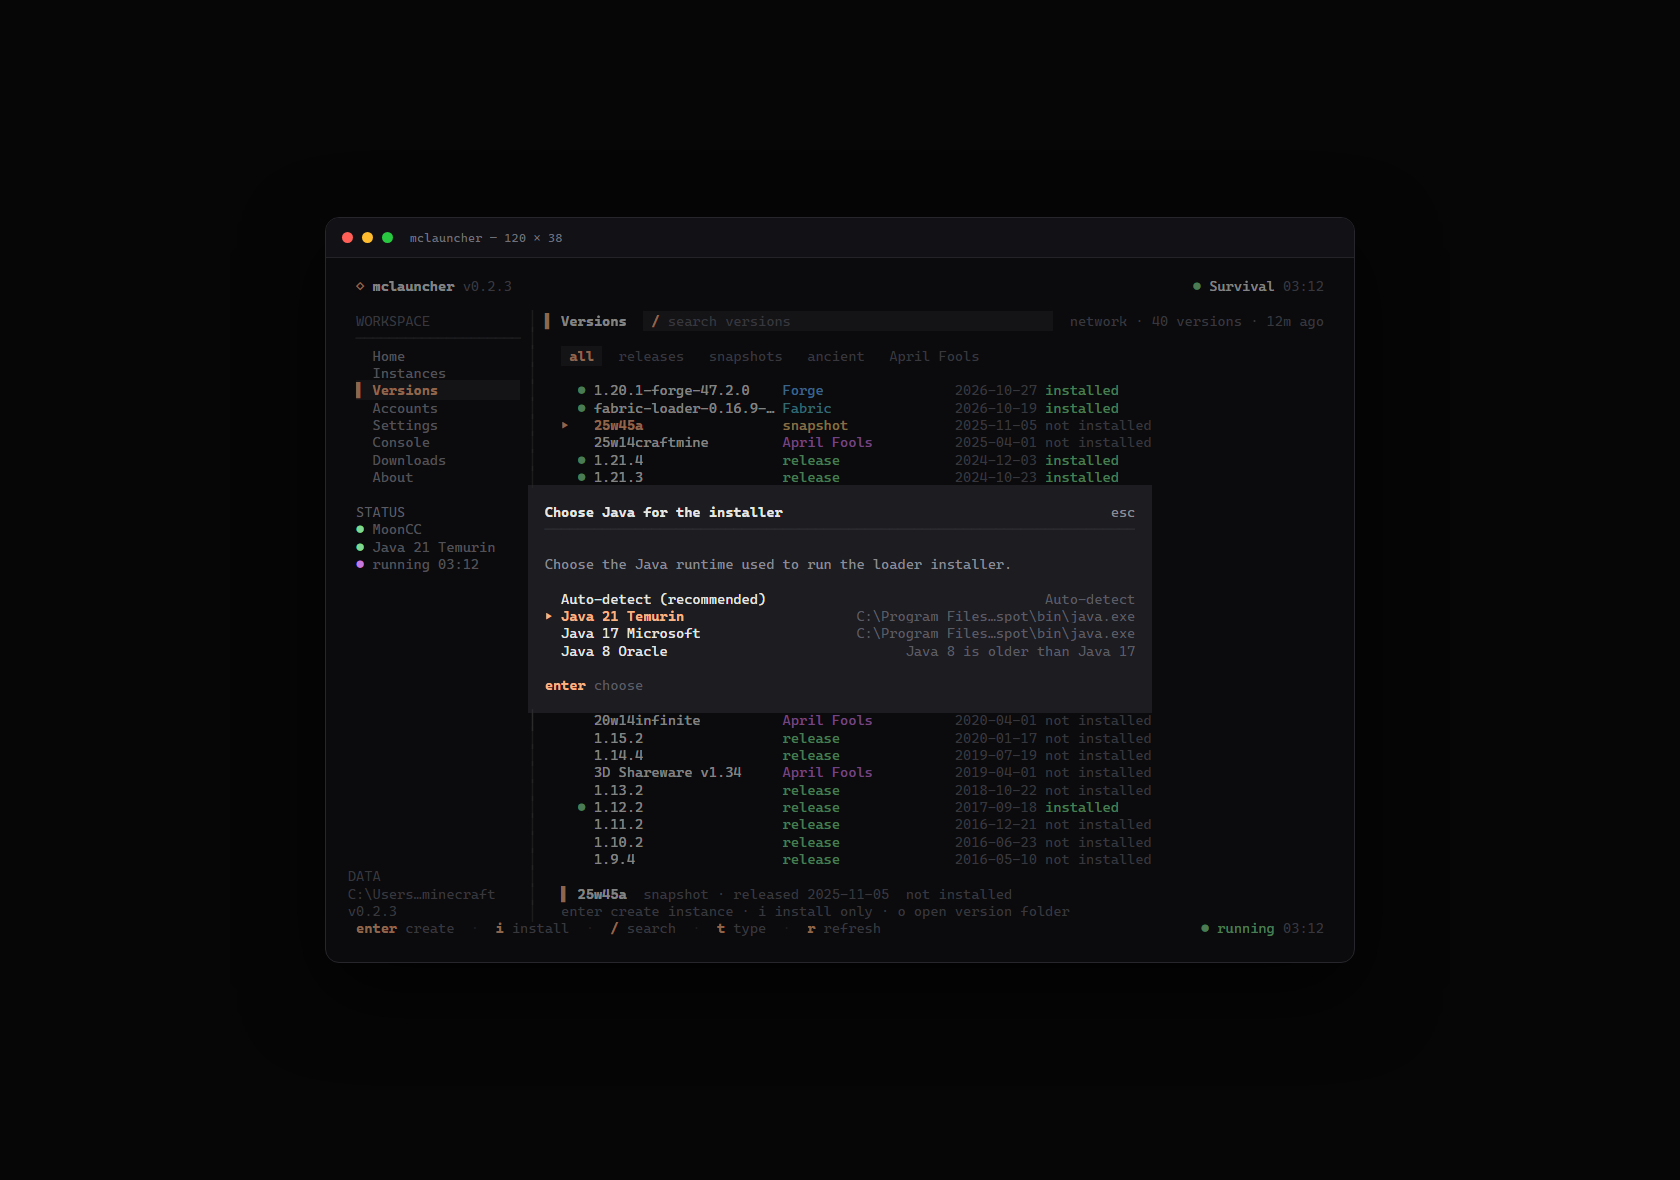
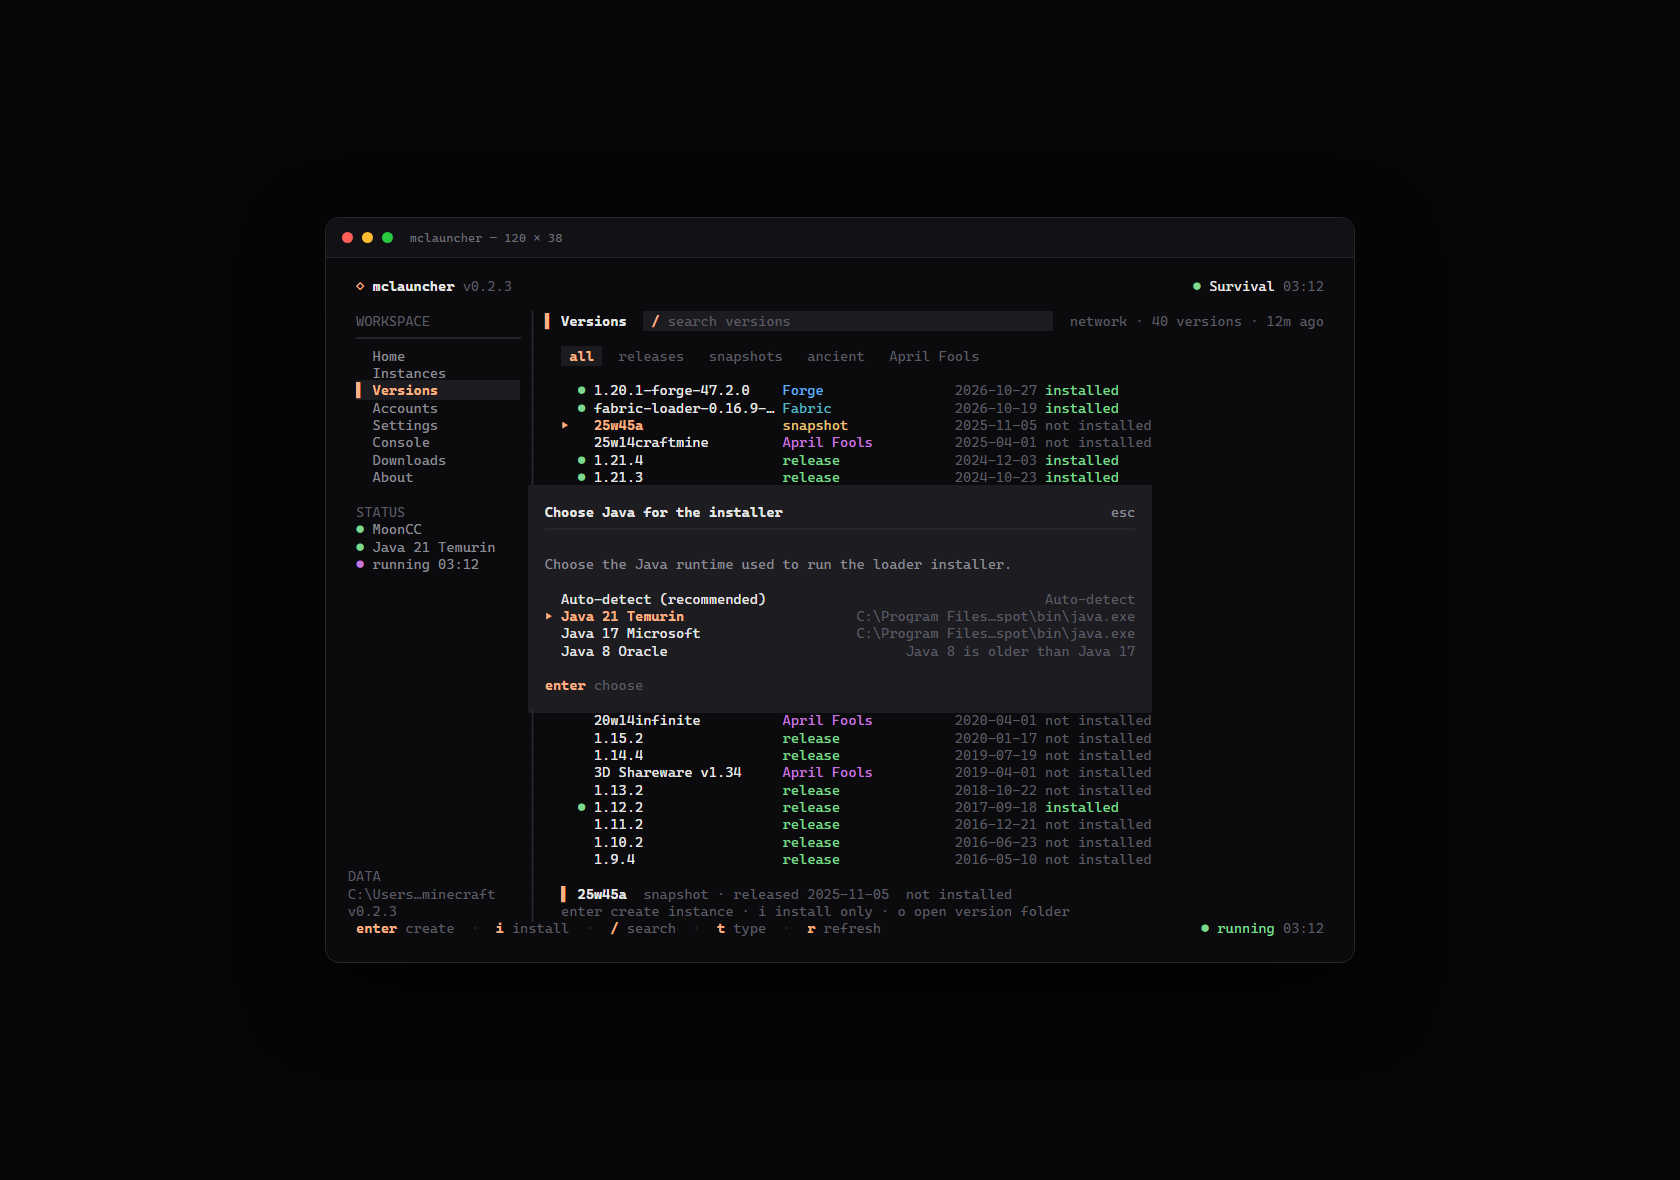
style: keep modal background at normal brightness
Remove the ANSI faint pass over the screen behind flat modals and refresh the affected screenshots.

diff --git a/internal/tui/view_modal.go b/internal/tui/view_modal.go
@@ -383,11 +383,9 @@ func panelBackgroundSeq() string {
 	return fmt.Sprintf("\x1b[48;2;%d;%d;%dm", c.R, c.G, c.B)
 }
 
-// overlayModal draws the flat panel over a dimmed copy of the screen.
+// overlayModal draws the flat panel over the screen, leaving the surrounding
+// content at its normal brightness.
 func (m *Model) overlayModal(base string, panel []string, offX, offY, boxW int) string {
-	const faint = "\x1b[2m"
-	base = strings.ReplaceAll(base, "\x1b[0m", "\x1b[0m"+faint)
-	base = faint + base + "\x1b[0m"
 	baseLines := strings.Split(base, "\n")
 	out := make([]string, 0, m.height)
 	for y := 0; y < m.height; y++ {
@@ -405,7 +403,7 @@ func (m *Model) overlayModal(base string, panel []string, offX, offY, boxW int) 
 			if w := ansi.StringWidth(right); w < m.width-(offX+boxW) {
 				right += strings.Repeat(" ", m.width-(offX+boxW)-w)
 			}
-			line = left + "\x1b[0m" + panel[y-offY] + faint + right + "\x1b[0m"
+			line = left + "\x1b[0m" + panel[y-offY] + right + "\x1b[0m"
 		}
 		out = append(out, fitLine(line, m.width))
 	}

diff --git a/internal/tui/modal_style_test.go b/internal/tui/modal_style_test.go
@@ -9,7 +9,7 @@ import (
 	"github.com/MoonCC233/MCLauncher-TUI/internal/i18n"
 )
 
-func TestModalStyleIsFlatAndDimsBackground(t *testing.T) {
+func TestModalStyleIsFlatAndKeepsBackground(t *testing.T) {
 	m := newTestModel(t)
 	m.width, m.height = 120, 38
 	m.lang = i18n.EN
@@ -21,14 +21,14 @@ func TestModalStyleIsFlatAndDimsBackground(t *testing.T) {
 			t.Errorf("flat modal still renders rounded corner %q", corner)
 		}
 	}
-	if !strings.Contains(raw, "\x1b[2m") {
-		t.Error("background content is not dimmed")
+	if strings.Contains(raw, "\x1b[2m") {
+		t.Error("background content should stay at normal brightness")
 	}
 
 	lines := strings.Split(ansi.Strip(raw), "\n")
 	joined := strings.Join(lines, "\n")
 	if !strings.Contains(joined, "mclauncher") {
-		t.Error("background screen was discarded instead of dimmed")
+		t.Error("background screen was discarded instead of kept")
 	}
 	header := ""
 	for _, line := range lines {

diff --git a/scripts/ansi2html.go b/scripts/ansi2html.go
@@ -160,7 +160,7 @@ func writeLine(out *strings.Builder, line string, st *state) {
 			styles = append(styles, "font-weight:700")
 		}
 		if st.dim {
-			styles = append(styles, "opacity:.55")
+			styles = append(styles, "opacity:.75")
 		}
 		if len(styles) > 0 {
 			out.WriteString(`<span style="` + strings.Join(styles, ";") + `">` + span.String() + `</span>`)
